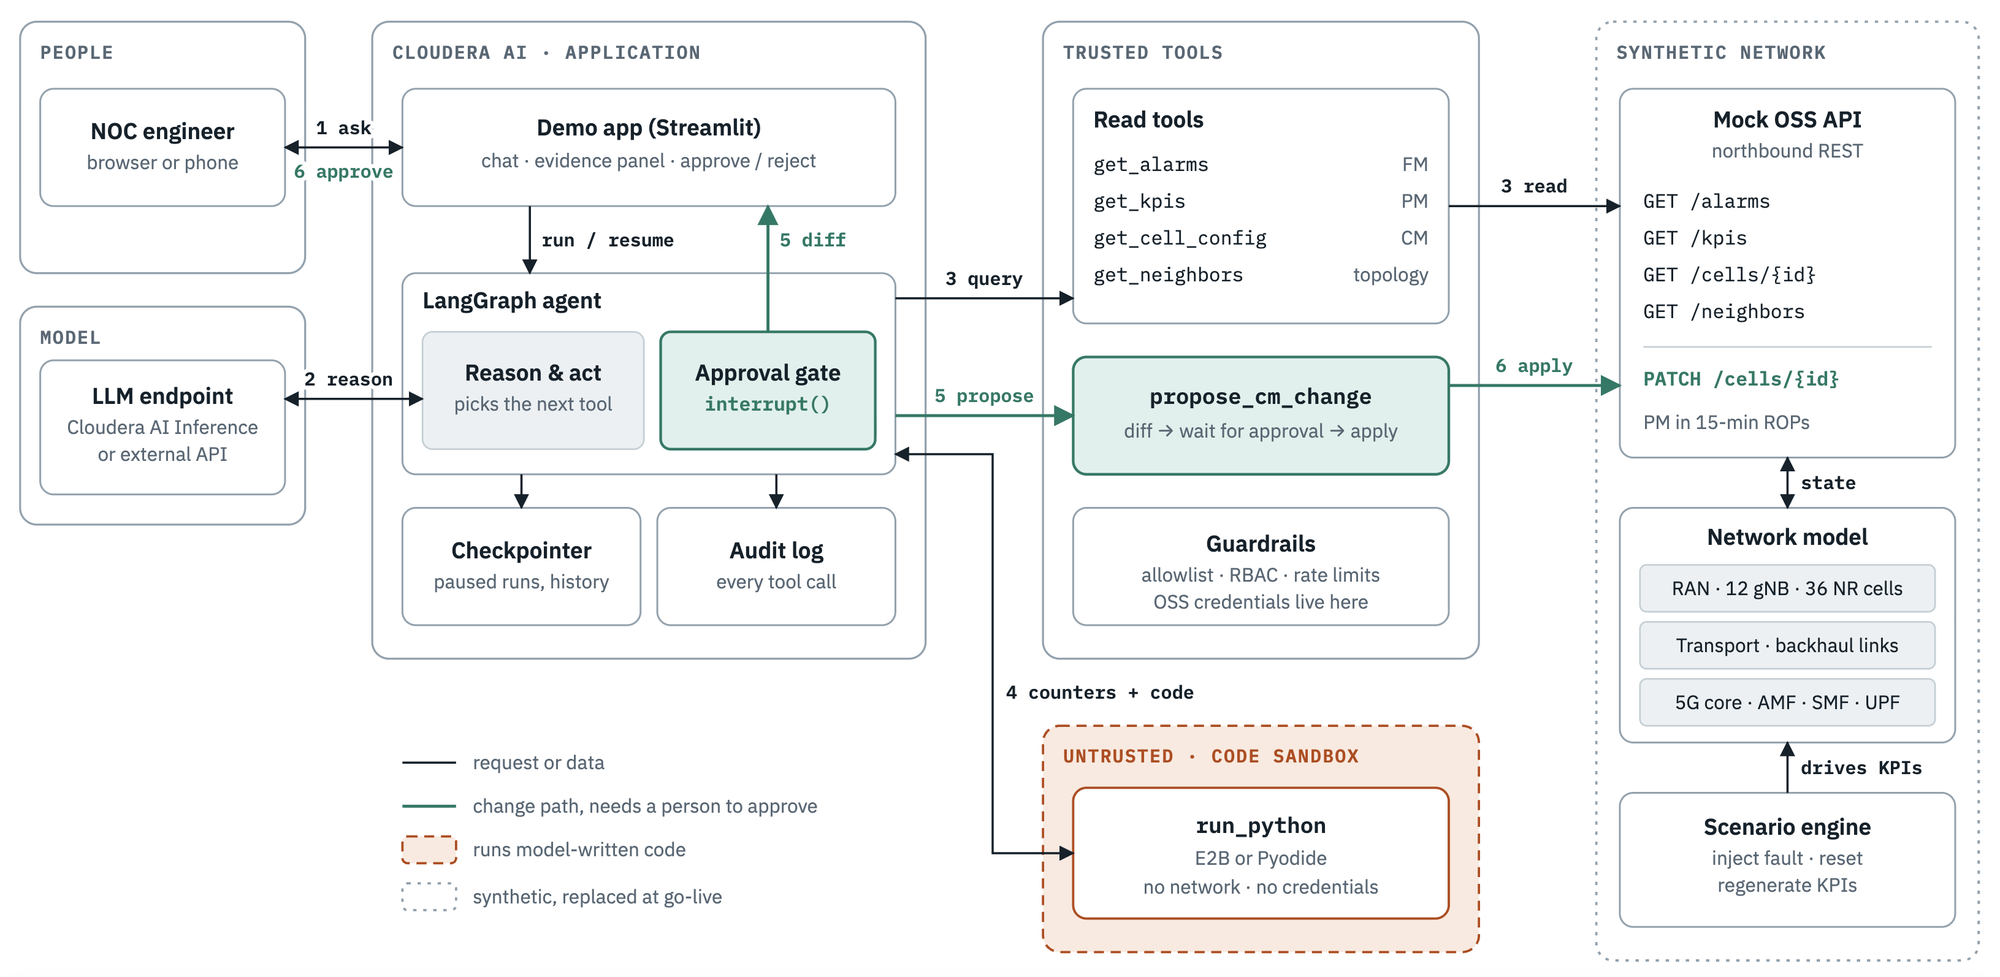
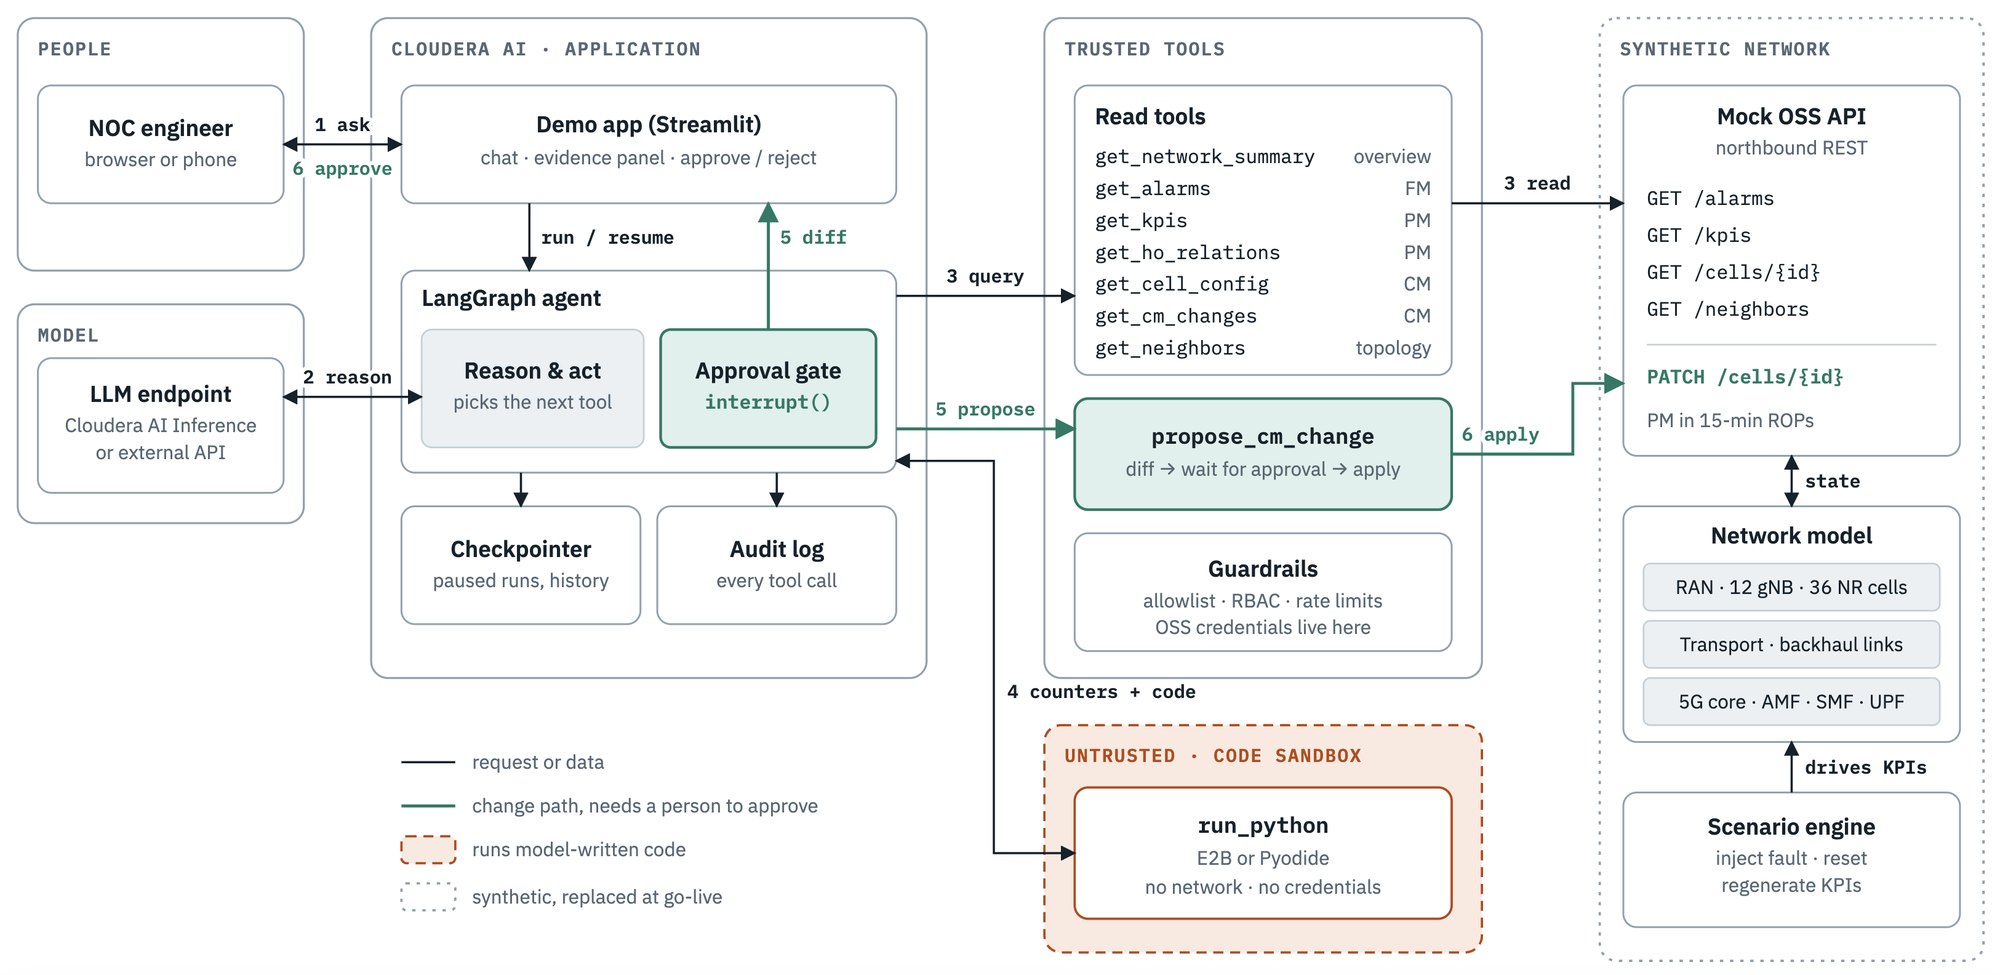
Update architecture diagram with all seven read tools

diff --git a/README.md b/README.md
@@ -116,8 +116,7 @@ go-live.
 > radio side**: 12 gNBs, 36 NR cells and one small cell, with their CM
 > attributes, neighbour relations, per-ROP PM counters and FM alarms. No
 > transport (backhaul) or core (AMF, SMF, UPF) elements, alarms or counters
-> are generated yet. The diagram also shows four of the seven read tools; the
-> table below lists all of them. The sandbox and guardrail boxes show options
+> are generated yet. The sandbox and guardrail boxes show options
 > as well as what is built; see
 > [Sandbox Options](#sandbox-options-e2b-and-pyodide) and
 > [Access Control](#access-control-rbac) for what is in the code today.
